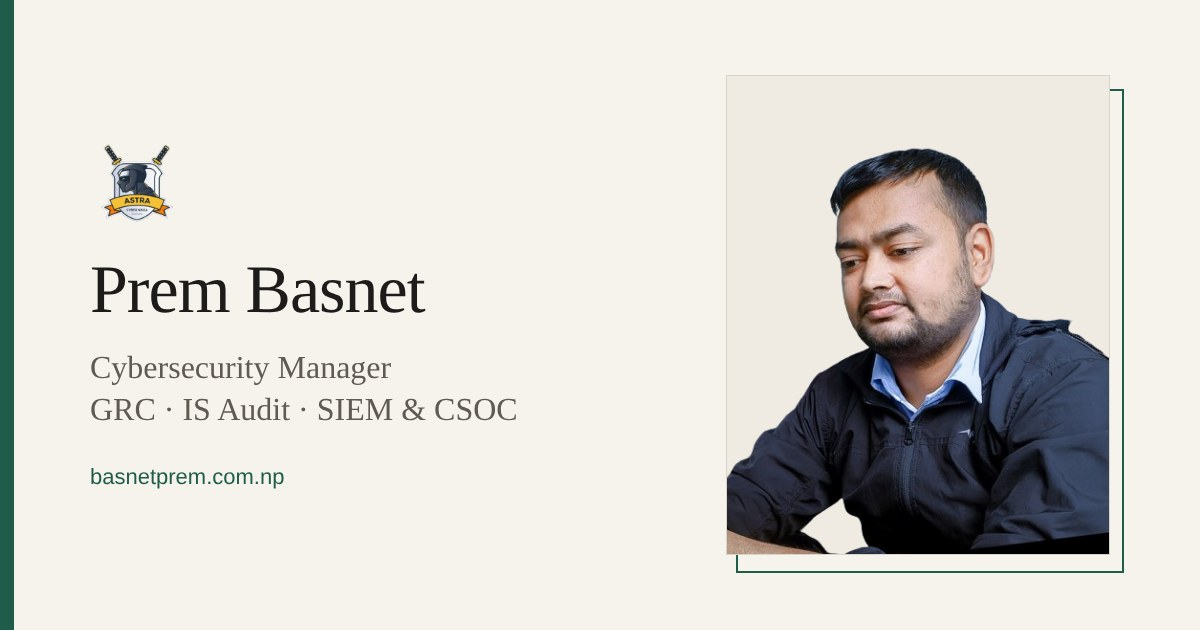
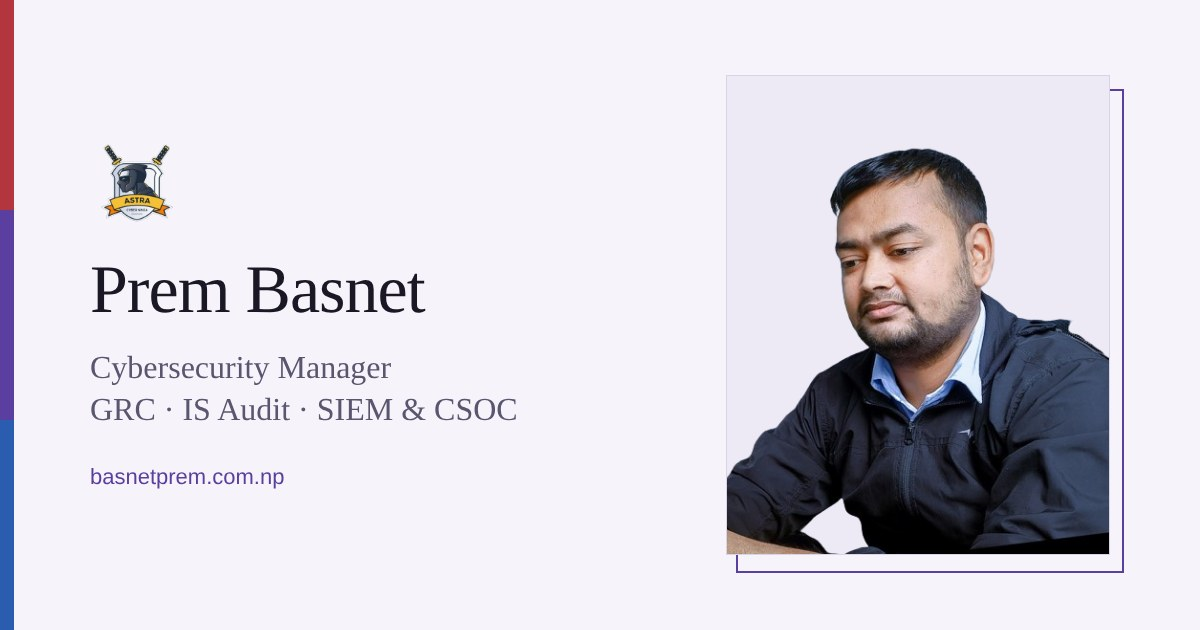
Purple team theme: purple brand, red for offence and blue for defence, team tags on skills and services
Claude-Session: https://claude.ai/code/session_011PEHF2N8vgSo2xVrUg2P9s

Changed region(s): [[0.0, 0.0, 0.0308, 1.0], [0.6167, 0.9048, 0.925, 0.9349], [0.0617, 0.7238, 0.2467, 0.7841]]

diff --git a/src/components/Projects.jsx b/src/components/Projects.jsx
@@ -2,36 +2,48 @@ import Section from './Section.jsx'
 
 const projects = [
   {
+    team: 'purple',
     title: 'Cloud Security Audits — AWS & Azure',
     description: 'Full-phase cloud security assessments covering configuration reviews, IAM analysis, network controls, and remediation guidance for AWS and Azure environments.',
     tags: ['AWS', 'Azure', 'Cloud VAPT', 'IAM Review', 'Config Audit'],
   },
   {
+    team: 'purple',
     title: 'IS Audit & GRC Programs',
     description: 'End-to-end information security audit engagements — scoping, control assessment, gap analysis, risk register development, and executive reporting.',
     tags: ['IS Audit', 'Risk Register', 'ISO 27001', 'Gap Analysis'],
   },
   {
+    team: 'red',
     title: 'VAPT Engagements',
     description: 'Comprehensive network, web application, and API penetration testing engagements using industry-standard methodologies, from reconnaissance through remediation.',
     tags: ['Penetration Testing', 'Web App', 'API Security', 'Network VAPT'],
   },
   {
+    team: 'purple',
     title: 'Regulatory Compliance',
     description: 'Compliance readiness assessments and implementation support across multiple frameworks — helping organizations achieve and maintain certification.',
     tags: ['ISO 27001', 'SOC 2', 'PCI DSS', 'HIPAA', 'GDPR', 'COBIT'],
   },
   {
+    team: 'blue',
     title: 'CSOC & SIEM Operations',
     description: 'Design and management of Security Operations Centers — SIEM deployment, use case development, threat intelligence integration, and 24/7 monitoring.',
     tags: ['SIEM', 'SOC', 'Threat Intelligence', 'Incident Response'],
   },
   {
+    team: 'purple',
     title: 'Security Policy Development',
     description: 'Developing, reviewing, and updating organizational security policies, standards, and procedures aligned with ISO 27001:2022 and industry best practices.',
     tags: ['Policy Writing', 'ISO 27001:2022', 'ISMS', 'Standards'],
   },
 ]
+
+const TEAM = {
+  purple: { label: 'Governance',  dot: 'bg-accent'  },
+  red:    { label: 'Red team',    dot: 'bg-offense' },
+  blue:   { label: 'Blue team',   dot: 'bg-defense' },
+}
 
 export default function Projects() {
   return (
@@ -40,6 +52,10 @@ export default function Projects() {
       <ol className="divide-y divide-rule border-y border-rule">
         {projects.map(p => (
           <li key={p.title} className="py-6">
+            <p className="flex items-center gap-2 text-[12px] font-medium uppercase tracking-wider text-muted mb-1">
+              <span aria-hidden="true" className={`w-2 h-2 rounded-full ${TEAM[p.team].dot}`} />
+              {TEAM[p.team].label}
+            </p>
             <h3 className="font-serif text-xl leading-snug mb-1">{p.title}</h3>
             <p className="text-[15px] mb-2 max-w-2xl">{p.description}</p>
             <p className="text-[14px] text-muted">{p.tags.join(', ')}</p>

diff --git a/src/index.css b/src/index.css
@@ -10,39 +10,52 @@
   --color-accent: var(--accent);
   --color-accent-dark: var(--accent-hover);
   --color-on-accent:   var(--on-accent);
+  --color-offense: var(--offense);
+  --color-defense: var(--defense);
 
   --font-sans:  'IBM Plex Sans', ui-sans-serif, system-ui, sans-serif;
   --font-serif: 'Newsreader', Georgia, 'Times New Roman', serif;
 }
 
-/* Daylight palette */
+/*
+ * Purple team palette
+ *   purple = the brand colour (where offence and defence meet)
+ *   red    = offensive work (red team)
+ *   blue   = defensive work (blue team)
+ */
+
+/* Daylight */
 :root {
   color-scheme: light;
-  --paper: #f6f3ed;
-  --tint: #efebe2;
-  --field: #fbfaf7;
-  --ink: #1d1c1a;
-  --muted: #5f5b53;
-  --rule: #d9d4c8;
-  --accent: #1f5d4a;
-  --accent-hover: #154436;
+  --paper: #f6f4fa;
+  --tint: #edeaf5;
+  --field: #fcfbfe;
+  --ink: #1b1826;
+  --muted: #5a5670;
+  --rule: #d8d3e6;
+  --accent: #5b3fa0;
+  --accent-hover: #46308a;
   --on-accent: #ffffff;
-  --selection: #cfe3da;
+  --offense: #b3363f;
+  --defense: #2a5db0;
+  --selection: #e0d8f5;
 }
 
-/* Night palette */
+/* Night */
 :root[data-theme='dark'] {
   color-scheme: dark;
-  --paper: #0e1311;
-  --tint: #141b18;
-  --field: #131a17;
-  --ink: #ebe7de;
-  --muted: #a3aaa3;
-  --rule: #26302b;
-  --accent: #5fc9a0;
-  --accent-hover: #86dcb9;
-  --on-accent: #0a1410;
-  --selection: #24493c;
+  --paper: #0f0d16;
+  --tint: #161321;
+  --field: #14111e;
+  --ink: #ece9f3;
+  --muted: #a9a4b8;
+  --rule: #2a2538;
+  --accent: #b79cff;
+  --accent-hover: #cdb8ff;
+  --on-accent: #140d26;
+  --offense: #ff7b85;
+  --defense: #7fb2ff;
+  --selection: #3a2f66;
 }
 
 @layer base {
@@ -64,5 +77,15 @@
   :focus-visible {
     outline: 2px solid var(--color-accent);
     outline-offset: 3px;
+  }
+}
+
+@layer components {
+  /* Short brand rule: red (offence) -> purple -> blue (defence) */
+  .team-rule {
+    display: block;
+    width: 64px;
+    height: 3px;
+    background: linear-gradient(90deg, var(--offense) 0 33.33%, var(--accent) 33.33% 66.66%, var(--defense) 66.66% 100%);
   }
 }

diff --git a/src/components/Skills.jsx b/src/components/Skills.jsx
@@ -2,6 +2,7 @@ import Section from './Section.jsx'
 
 const categories = [
   {
+    team: 'purple', label: 'Governance',
     title: 'Governance, Risk & Compliance',
     desc: 'Navigating complex regulatory landscapes to build trust, reduce risk, and ensure business resilience.',
     skills: [
@@ -11,6 +12,7 @@ const categories = [
     ],
   },
   {
+    team: 'red', label: 'Red team',
     title: 'Offensive Security & VAPT',
     desc: 'Identifying and exploiting vulnerabilities before adversaries do — strengthening defenses through real-world attack simulation.',
     skills: [
@@ -21,6 +23,7 @@ const categories = [
     ],
   },
   {
+    team: 'blue', label: 'Blue team',
     title: 'Infrastructure & Operations',
     desc: 'Securing and hardening enterprise infrastructure through proven frameworks, monitoring, and incident management.',
     skills: [
@@ -33,14 +36,23 @@ const categories = [
   },
 ]
 
+const TEAM = {
+  purple: 'border-accent text-accent',
+  red:    'border-offense text-offense',
+  blue:   'border-defense text-defense',
+}
+
 export default function Skills() {
   return (
     <Section id="skills" title="Skills" tint
-      intro="Mostly compliance and audit work, penetration testing, and running security operations.">
+      intro="Offence, defence, and the governance that ties them together.">
       <dl className="divide-y divide-rule border-y border-rule">
         {categories.map(c => (
           <div key={c.title} className="py-6 grid md:grid-cols-[200px_1fr] gap-2 md:gap-8">
-            <dt className="font-serif text-xl leading-snug">{c.title}</dt>
+            <dt className={`border-l-[3px] pl-3 ${TEAM[c.team]}`}>
+              <span className="block text-[12px] font-medium uppercase tracking-wider mb-1">{c.label}</span>
+              <span className="block font-serif text-xl leading-snug text-ink">{c.title}</span>
+            </dt>
             <dd>
               <p className="text-muted mb-3">{c.desc}</p>
               <p className="text-[15px] leading-relaxed">{c.skills.join(' · ')}</p>

diff --git a/public/thank-you.html b/public/thank-you.html
@@ -21,8 +21,8 @@
   <link rel="preconnect" href="https://fonts.gstatic.com" crossorigin>
   <link href="https://fonts.googleapis.com/css2?family=IBM+Plex+Sans:wght@400;500&family=Newsreader:opsz,wght@6..72,400;500&display=swap" rel="stylesheet">
   <style>
-    :root { color-scheme: light; --paper: #f6f3ed; --ink: #1d1c1a; --muted: #5f5b53; --accent: #1f5d4a; --accent-hover: #154436; --on-accent: #fff; }
-    :root[data-theme="dark"] { color-scheme: dark; --paper: #0e1311; --ink: #ebe7de; --muted: #a3aaa3; --accent: #5fc9a0; --accent-hover: #86dcb9; --on-accent: #0a1410; }
+    :root { color-scheme: light; --paper: #f6f4fa; --ink: #1b1826; --muted: #5a5670; --accent: #5b3fa0; --accent-hover: #46308a; --on-accent: #fff; }
+    :root[data-theme="dark"] { color-scheme: dark; --paper: #0f0d16; --ink: #ece9f3; --muted: #a9a4b8; --accent: #b79cff; --accent-hover: #cdb8ff; --on-accent: #140d26; }
     body { margin: 0; min-height: 100vh; display: grid; place-items: center; padding: 24px;
            background: var(--paper); color: var(--ink); font-family: "IBM Plex Sans", system-ui, sans-serif; line-height: 1.6; }
     main { max-width: 520px; }

diff --git a/src/components/Banner.jsx b/src/components/Banner.jsx
@@ -5,8 +5,9 @@ export default function Banner() {
     <section id="top" className="pt-10 pb-12 md:pt-14 md:pb-16">
       <div className="max-w-6xl mx-auto px-6 grid lg:grid-cols-[1.4fr_1fr] gap-12 items-center">
         <div>
+          <span aria-hidden="true" className="team-rule mb-6" />
           <h1 className="font-serif text-4xl md:text-5xl lg:text-[3.5rem] leading-[1.1] tracking-tight mb-5 max-w-2xl">
-            I help organisations pass their audits and catch <span className="text-accent italic">real attacks</span>.
+            I help organisations pass their <span className="text-defense italic">audits</span> and catch <span className="text-offense italic">real attacks</span>.
           </h1>
           <p className="font-serif text-xl md:text-[1.4rem] leading-snug text-ink/85 mb-5 max-w-xl">
             Prem Basnet &middot; Cybersecurity Manager and ISO 27001:2022 Lead Auditor, working in

diff --git a/index.html b/index.html
@@ -18,7 +18,7 @@
         document.documentElement.setAttribute('data-theme', t);
       })();
     </script>
-    <meta name="theme-color" content="#f6f3ed" />
+    <meta name="theme-color" content="#f6f4fa" />
     <meta
       name="description"
       content="Prem Basnet — Cybersecurity Manager | GRC & IS Audit | SIEM & CSOC Operations with 10 years in cybersecurity, GRC, penetration testing, and cloud security."

diff --git a/src/theme.js b/src/theme.js
@@ -33,5 +33,5 @@ export function resolve(mode) {
 export function applyTheme(theme) {
   document.documentElement.dataset.theme = theme
   const meta = document.querySelector('meta[name="theme-color"]')
-  if (meta) meta.setAttribute('content', theme === 'dark' ? '#0e1311' : '#f6f3ed')
+  if (meta) meta.setAttribute('content', theme === 'dark' ? '#0f0d16' : '#f6f4fa')
 }

diff --git a/README.md b/README.md
@@ -58,7 +58,7 @@ Home → Skills → Experience → Certifications → Work → Contact
 | **Framework** | [React 19](https://reactjs.org/) |
 | **Styling** | [Tailwind CSS v4](https://tailwindcss.com/) (`@tailwindcss/vite`) |
 | **Contact Form** | [Formsubmit.co](https://formsubmit.co/) (zero-backend) |
-| **Theme** | Light by day (06:00–18:00 local time), dark at night; a nav toggle cycles Auto / Light / Dark and remembers the choice |
+| **Theme** | Purple team palette (purple brand, red = offence, blue = defence). Light by day (06:00–18:00 local time), dark at night; a nav toggle cycles Auto / Light / Dark and remembers the choice |
 | **Fonts** | Newsreader (headings) · IBM Plex Sans (body), via Google Fonts |
 
 ---
